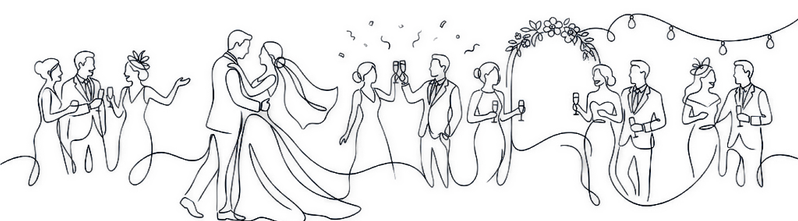
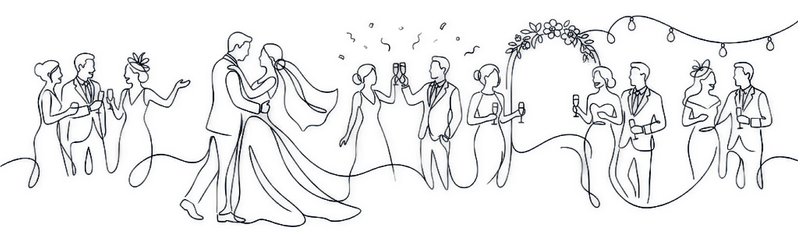
Agranda y pone en negrita los textos de la portada animada
En la escena de "Porque eres parte de nuestra historia... / ...queremos
que nos acompañes en nuestro gran día" y en "Nuestra boda" / la fecha
"24 de octubre de 2026": suben de tamaño (50→58, 46→54, 40→46, 42→48) y
pasan a peso 700 (antes 500/normal), sin romper el ancho del lienzo.

diff --git a/assets/intro-cover.jsx b/assets/intro-cover.jsx
@@ -434,18 +434,18 @@ function IntroCover() {
           <div style={{ position: 'absolute', inset: 0, background: '#fdfdfb', opacity: clamp(whiteOp, 0, 1), pointerEvents: 'none' }} />
 
           <div style={{ position: 'absolute', left: 0, right: 0, top: 540, textAlign: 'center', color: '#fffdf7', opacity: blockA, textShadow: shadow }}>
-            <Line family={serif} size={50} text={'Porque eres parte\nde nuestra historia...'} style={{ fontStyle: 'italic', fontWeight: 500, letterSpacing: '0.01em' }} />
+            <Line family={serif} size={58} text={'Porque eres parte\nde nuestra historia...'} style={{ fontStyle: 'italic', fontWeight: 700, letterSpacing: '0.01em' }} />
           </div>
           <div style={{ position: 'absolute', left: 0, right: 0, top: 540, textAlign: 'center', color: '#fffdf7', opacity: blockB, textShadow: shadow }}>
-            <Line family={serif} size={46} text={'...queremos que nos acompañes\nen nuestro gran día'} style={{ fontStyle: 'italic', fontWeight: 500, letterSpacing: '0.01em' }} />
+            <Line family={serif} size={54} text={'...queremos que nos acompañes\nen nuestro gran día'} style={{ fontStyle: 'italic', fontWeight: 700, letterSpacing: '0.01em' }} />
           </div>
 
           <Sparkle p={sparkP} />
 
           <div style={{ position: 'absolute', left: 0, right: 0, top: 548, textAlign: 'center', color: '#fffdf7', textShadow: shadow }}>
-            <div style={{ fontFamily: serif, fontStyle: 'italic', fontSize: 40, letterSpacing: '0.05em', opacity: kickOp }}>{kicker}</div>
+            <div style={{ fontFamily: serif, fontStyle: 'italic', fontWeight: 700, fontSize: 46, letterSpacing: '0.05em', opacity: kickOp }}>{kicker}</div>
             <div style={{ fontFamily: script, fontSize: 86, lineHeight: 1.32, opacity: nameOp, transform: 'translateY(' + nameY + 'px)', whiteSpace: 'nowrap' }}>{names}</div>
-            <div style={{ fontFamily: serif, fontSize: 42, letterSpacing: '0.03em', opacity: dateOp, marginTop: 10 }}>{date}</div>
+            <div style={{ fontFamily: serif, fontWeight: 700, fontSize: 48, letterSpacing: '0.03em', opacity: dateOp, marginTop: 10 }}>{date}</div>
           </div>
 
           {!cardGone && (

diff --git a/index.html b/index.html
@@ -3,7 +3,7 @@
 <meta charset="utf-8">
 <script>
 (function () {
-  var BUILD_VERSION = "2026-09-18.4";
+  var BUILD_VERSION = "2026-09-18.6";
   try {
     if (sessionStorage.getItem('dc_reloaded_for_version')) return;
     fetch('version.json?_=' + Date.now(), { cache: 'no-store' })
@@ -23,16 +23,16 @@
 <meta http-equiv="Cache-Control" content="no-cache, no-store, must-revalidate">
 <meta http-equiv="Pragma" content="no-cache">
 <meta http-equiv="Expires" content="0">
-<meta name="build-version" content="2026-09-18.4">
+<meta name="build-version" content="2026-09-18.6">
 <meta name="viewport" content="width=device-width, initial-scale=1">
 <title>Juan Daniel &amp; Jessica — Invitación de boda</title>
 <script>
   window.__resources = {
-    "https://unpkg.com/react@18.3.1/umd/react.production.min.js": "assets/vendor/react.production.min.js?v=2026-09-18.4",
-    "https://unpkg.com/react-dom@18.3.1/umd/react-dom.production.min.js": "assets/vendor/react-dom.production.min.js?v=2026-09-18.4"
+    "https://unpkg.com/react@18.3.1/umd/react.production.min.js": "assets/vendor/react.production.min.js?v=2026-09-18.6",
+    "https://unpkg.com/react-dom@18.3.1/umd/react-dom.production.min.js": "assets/vendor/react-dom.production.min.js?v=2026-09-18.6"
   };
 </script>
-<script src="assets/vendor/dc-runtime.js?v=2026-09-18.4"></script>
+<script src="assets/vendor/dc-runtime.js?v=2026-09-18.6"></script>
 </head>
 <body>
 <x-dc>
@@ -1007,7 +1007,7 @@ class Component extends DCLogic {
   componentDidMount() {
     var self = this;
     this.timer = setInterval(function () { self.setState({ now: Date.now() }); }, 1000);
-    this.audio = new Audio("./assets/audio/musica.mp3?v=2026-09-18.4");
+    this.audio = new Audio("./assets/audio/musica.mp3?v=2026-09-18.6");
     this.audio.loop = true;
     this.audio.volume = 0.5;
     this.audio.addEventListener("error", function () { self.setState({ audioReady: false, musicOn: false }); });
